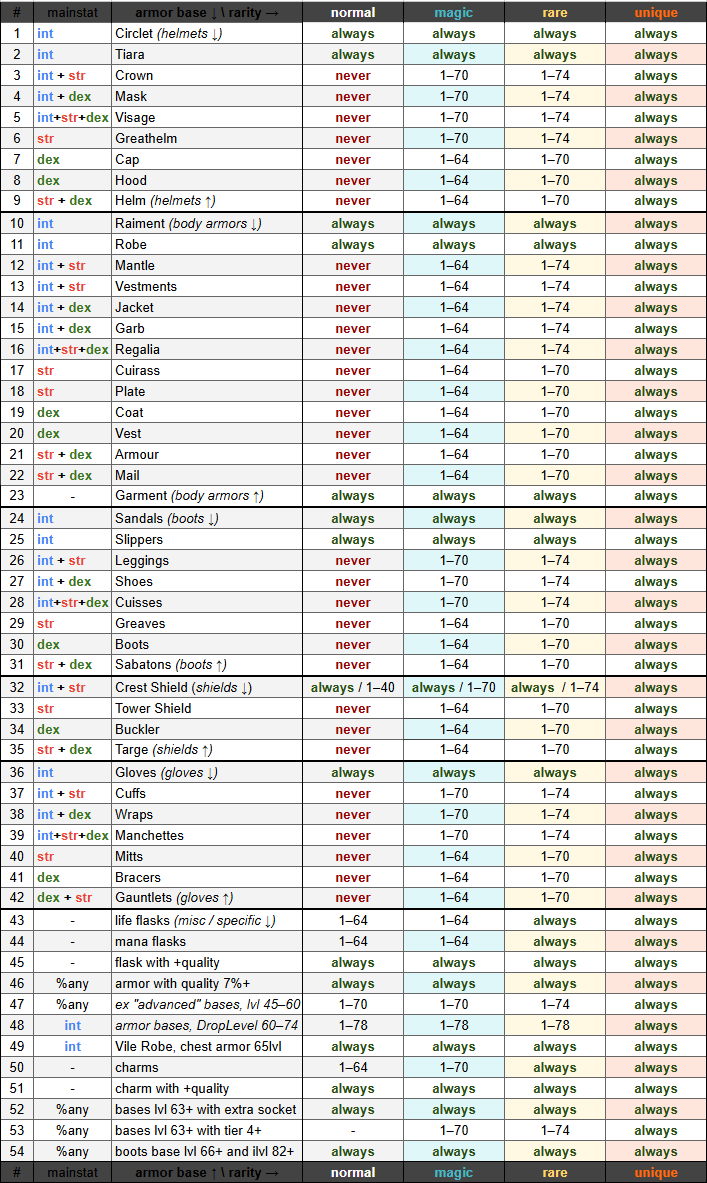
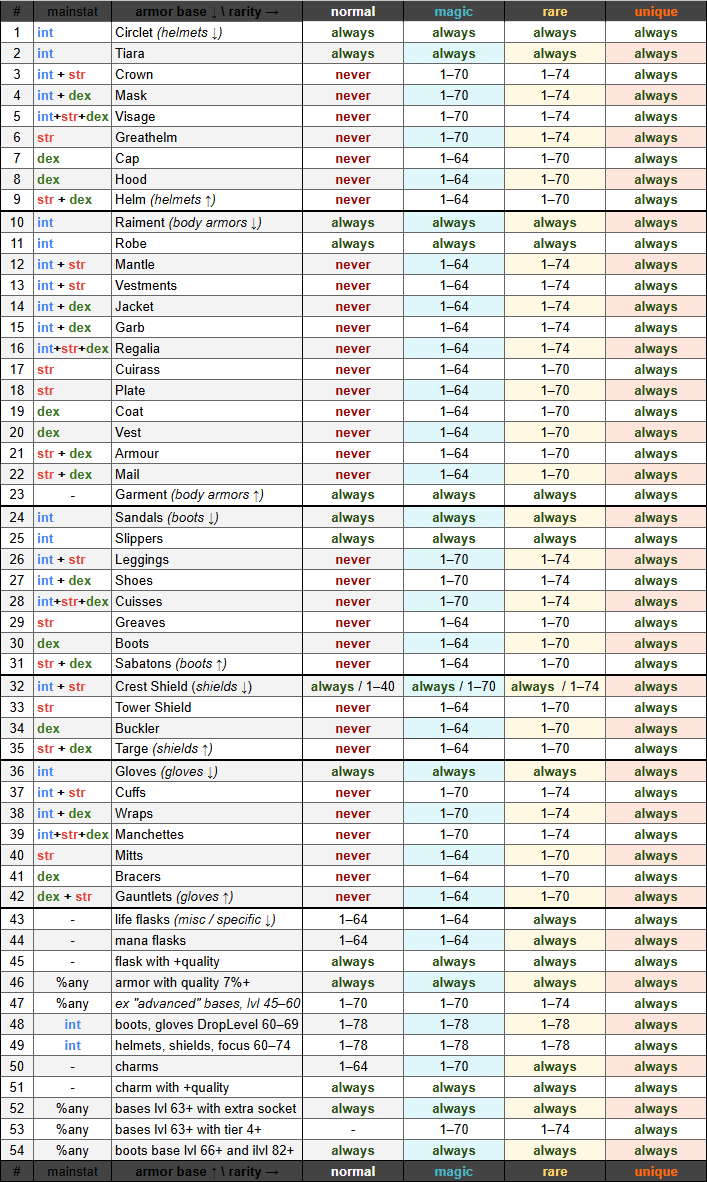
updating styles for uniques with extra socket, updating bases for craft of uniques

Changed region(s): [[0.0, 0.0, 0.9958, 0.9137]]

diff --git a/README.md b/README.md
@@ -2,26 +2,45 @@
 
 *based on NeverSink's lootfilter v0.1.1 and augmented with a few hundred of my additional rules*
 
+[!TIP] TLDR Installation / Connection<br>
+*Detailed instructions are provided a couple of paragraphs below. Please read the full instructions if you're first time to see this project.*
+- ### cloud files:
+  - **[fpsthirty-6961/item-filters](https://www.pathofexile.com/account/view-profile/fpsthirty-6961/item-filters)**
+- ### local files:
+  Follow one of the github-links and click download icon in the upper right corner:
+    - **[lootfilter for summoners](https://github.com/fpsthirty/poe2-lootfilter/raw/main/lootfilters/fps30_summoner.filter)**
+    - **[lootfilter for mages](https://github.com/fpsthirty/poe2-lootfilter/raw/main/lootfilters/fps30_mage.filter)**
+  > ![download-icon](https://github.com/fpsthirty/poe2-lootfilter/raw/main/img/settings/download-icon.png)
+
 ## Basic principles of this project:
-1. 💯 <ins>Pick everything you see on the ground, on any area level</ins>. At AreaLevel *1+ / 65+ / 71+ / 75+* you see fewer and fewer items that have str- & dex-requirements on them and other useless items for your class. <br> **Characters of level 90+**: check out the "Endgame custom rules" section to apply additional rules for hiding potentially excessive items.
+1. 💯 <ins>Pick everything you see on the ground, on any area level</ins>. At AreaLevel *1+ / 65+ / 71+ / 75+* you see fewer and fewer items that have str- & dex-requirements on them and other useless items for your class. <br> **Characters of level 90+**: check out the "Endgame custom rules" section OR import your extra lootfilter to apply additional rules for hiding/showing some items.
 2. 🖋 <ins>Minimalism for equipment styles</ins>: ~99% of the equipment is garbage that doesn't deserve much custom styling, <br>**but you'll see a colorful 🎨 design of currency, map-specific items etc**.
 Special equipment stylization applies in the following cases:
    - for the best bases of the corresponding slot, on which the maximum affix tier *(itemLevel 81–82)* can be generated;
    - for some infrequent items on low-level characters: jewelry, belts, and Chiming staff;
    - items with additional quality *(caster weapons and armors only)*;
    - bases for crafting uniques with Chance Orb;
-   - unique items with a base that theoretically can be either very expensive (Astramentis, etc.) or very cheap.
+   - unique items in depending on their cost:
+     - orange text without beam: preliminary price less than 1 chaos orbs
+     - orange text with ping border and pink mean: for base that theoretically can be either very expensive (Astramentis, etc.) or very cheap (~1 chaos);
+     - orange text with beam: for cheap Schrodinger bases with price ~1–20 chaos;
+     - orange text with brown beam: preliminary price ~2–30 chaos orbs;
+     - orange text with brown beam and big fontsize: unique with extra socket;
+     - divine styles with red beam: price ~1div *(these styles are also used for other expensive non-unique items)*;
+     - divine styles with purple beam: price 2+ div.
 3. 📖 <ins>Ultimate documentation</ins>: in just a couple minutes you can familiarize yourself with the styles of ~95% of the items in the game and ~95% of the rules for showing/hiding items - there are over a dozen screenshots of how lootfilter works at the end of the article. If you're only interested in individual rules/styles, you can find them in the table of contents *(look at the beginning of the lootfilter file)*
 
 More details are listed inside the `.lootfilter`-file.<br><br>
-For now, I've only created one version of lootfilter — **for casters**🧙♀<br>
-*Note*: is not for a specific caster class, but **for the gameplay style** of your chosen class 🧔🧝🐻
+For now, I've only created two version of lootfilter — **for mages**🧙♀ and **for summoners**💀 <br>
+*Note*: is not for a specific caster classes, but **for the gameplay style** of your chosen class 🧔🧝🐻
 
 ## Installation / Connection:
 
 ### ☁ CLOUD FILE
 *Recommended for characters at levels 1-90.*<br>
-Automatically updated lootfilter without the need to download any files.
+Automatically updated lootfilter without the need to download any files. <br><br>
+For use at levels 91–100, I recommend importing an additional file with your personal rules. <br>
+
 
 🧾 **Instruction:**
 1. Log in to the official website: https://www.pathofexile.com/
@@ -36,7 +55,7 @@ Automatically updated lootfilter without the need to download any files.
 
 ### 🗄 LOCAL FILE
 *Recommended for characters at levels 90+.*<br>
-In this case you can make your own edits, including activating additionally prepared rules in the 📋 "[[0700]] Endgame custom rules" section.
+In this case you can make your own edits, including activating additionally prepared rules in the 📋 "[[0800]] Endgame custom rules" section, but **I recommend making all edits by importing an additional file** so that they don't get overwritten when using subsequent versions of this lootfilter.
 
 🧾 **Instruction:**
 1. Open link of current release: [releases/latest](https://github.com/fpsthirty/poe2-lootfilter/releases/latest)
@@ -45,8 +64,20 @@ In this case you can make your own edits, including activating additionally prep
 4. Turn on filter in the game settings : `Escape` -> Options -> Game -> select the filter from the Dropdown box of "Item Filter" section — name of lootfilter will be **white** color.
 
 > [!WARNING]
-> Summoner settings are enabled by default; if you are playing as a mage without a large number of summons, open lootfilter-file in any text editor (I recommend Sublime Text), find "[[0200]] Section for non-summoner casters" section outside the table of contents.
+> Summoner settings are enabled by default; if you are playing as a mage without a large number of summons, open lootfilter-file in any text editor (I recommend Sublime Text), find "[[0700]] Section for non-summoner casters" section outside the table of contents.
 
+## 🧩 Importing an additional file with your rules into lootfilter
+
+**Recommended for use**. <br>
+If you want to customize one of my lootfilters, create a separate import file so that it will always apply, regardless of any future updates to that lootfilter.
+
+### How to use this:
+1. Create a file named `MyOptionalRules.filter`.
+2. Place it in a folder `C:/Users/%USERNAME%/Documents/My Games/Path of Exile 2` — this is the path to default  folder of lootfilters<br>
+*p.s. you can copy and paste it, your system will automatically replace %USERNAME% with your username*
+3. in the game settings : `Escape` -> Options -> Game -> click the loot filter update icon so it will pull the latest rules from your imported file.
+
+>  ![settings/game-itemfilter](https://github.com/fpsthirty/poe2-lootfilter/raw/main/img/settings/game-itemfilter.png)
 ---
 
 ## 📖 Documentation
@@ -110,11 +141,20 @@ In this case you can make your own edits, including activating additionally prep
 > ### delirium:
 >  ![delirium](https://github.com/fpsthirty/poe2-lootfilter/raw/main/img/loot/delirium.jpg)
 
+> ### equipment:
+> note about uniques:
+> - orange text without beam: preliminary price less than 1 chaos orbs;
+> - orange text with ping border and pink mean: for base that theoretically can be either very expensive (Astramentis, etc.) or very cheap (~1 chaos);
+> - orange text with beam: for cheap Schrodinger bases with price ~1–20 chaos;
+> - orange text with brown beam: preliminary price ~2–30 chaos orbs;
+> - orange text with brown beam and big fontsize: unique with extra socket;
+> - divine styles with red beam: price ~1div;
+> - divine styles with purple beam: price 2+ div.
+>
+>  ![equipment](https://github.com/fpsthirty/poe2-lootfilter/raw/main/img/loot/equip-main.jpg)
+
 > ### equipment (high-end):
 >  ![equip_high-end](https://github.com/fpsthirty/poe2-lootfilter/raw/main/img/loot/equip-highend.jpg)
-
-> ### equipment:
->  ![equipment](https://github.com/fpsthirty/poe2-lootfilter/raw/main/img/loot/equip-main.jpg)
 
 > ### essences:
 >  ![essences](https://github.com/fpsthirty/poe2-lootfilter/raw/main/img/loot/essences.jpg)
